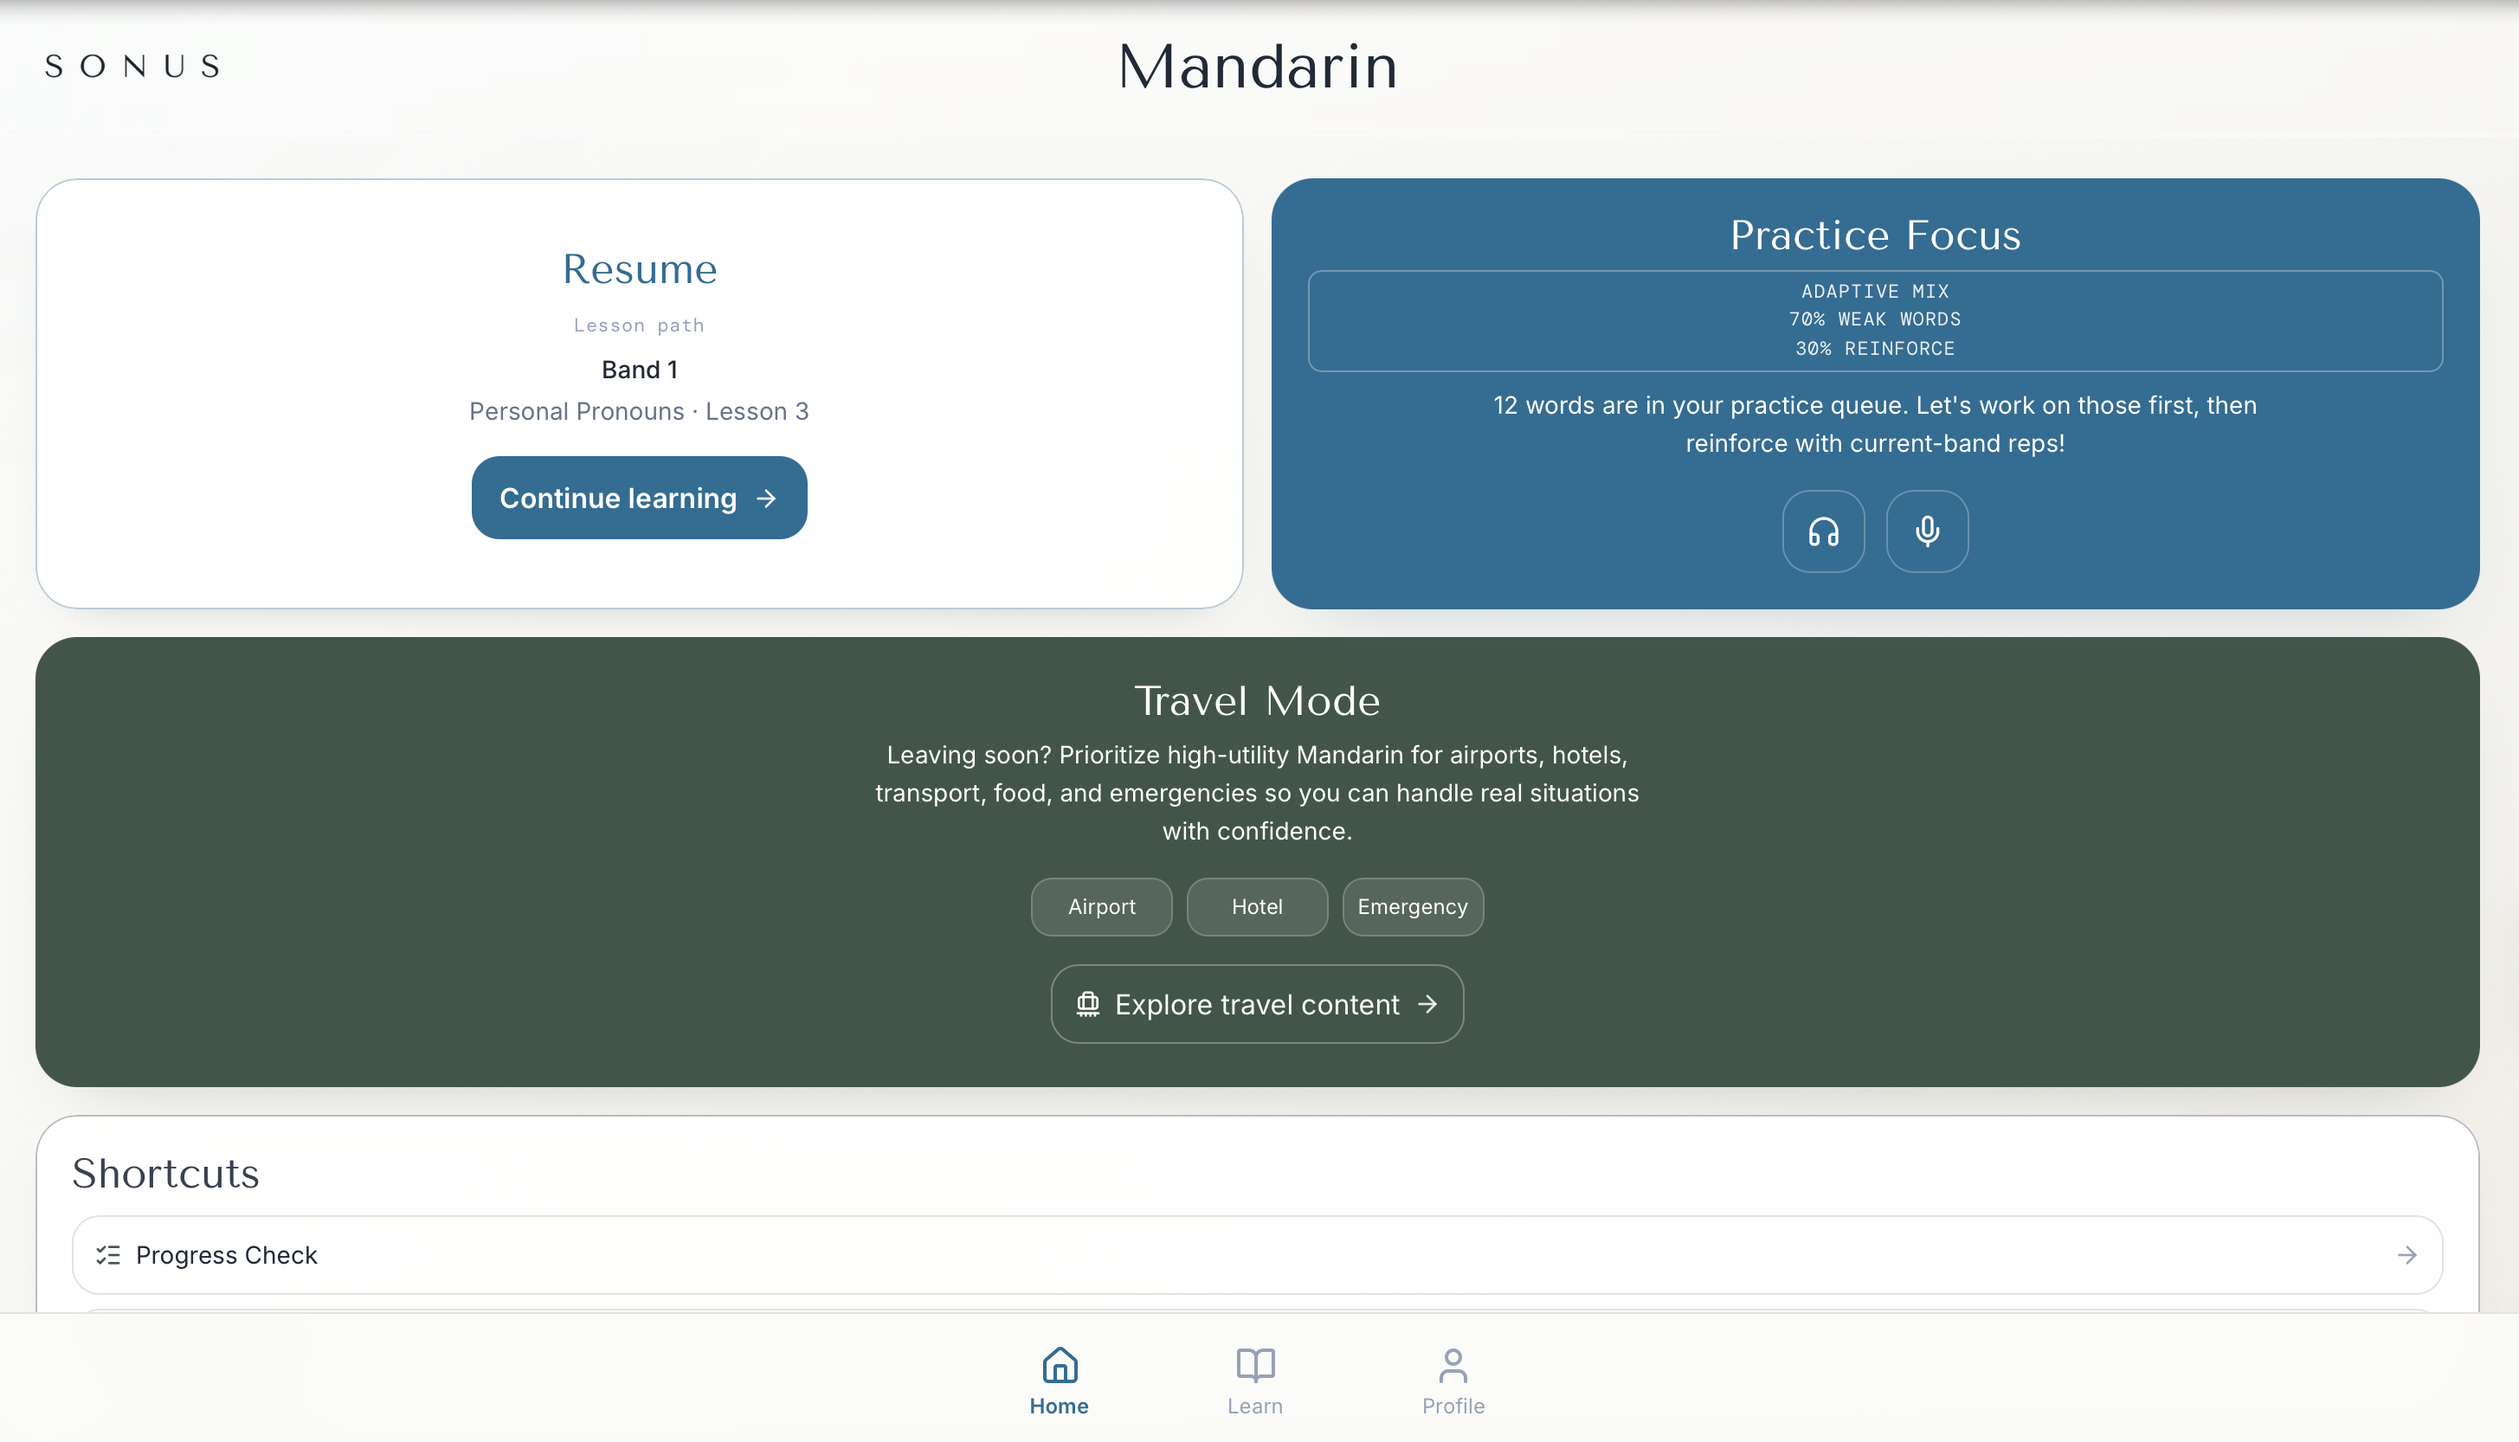
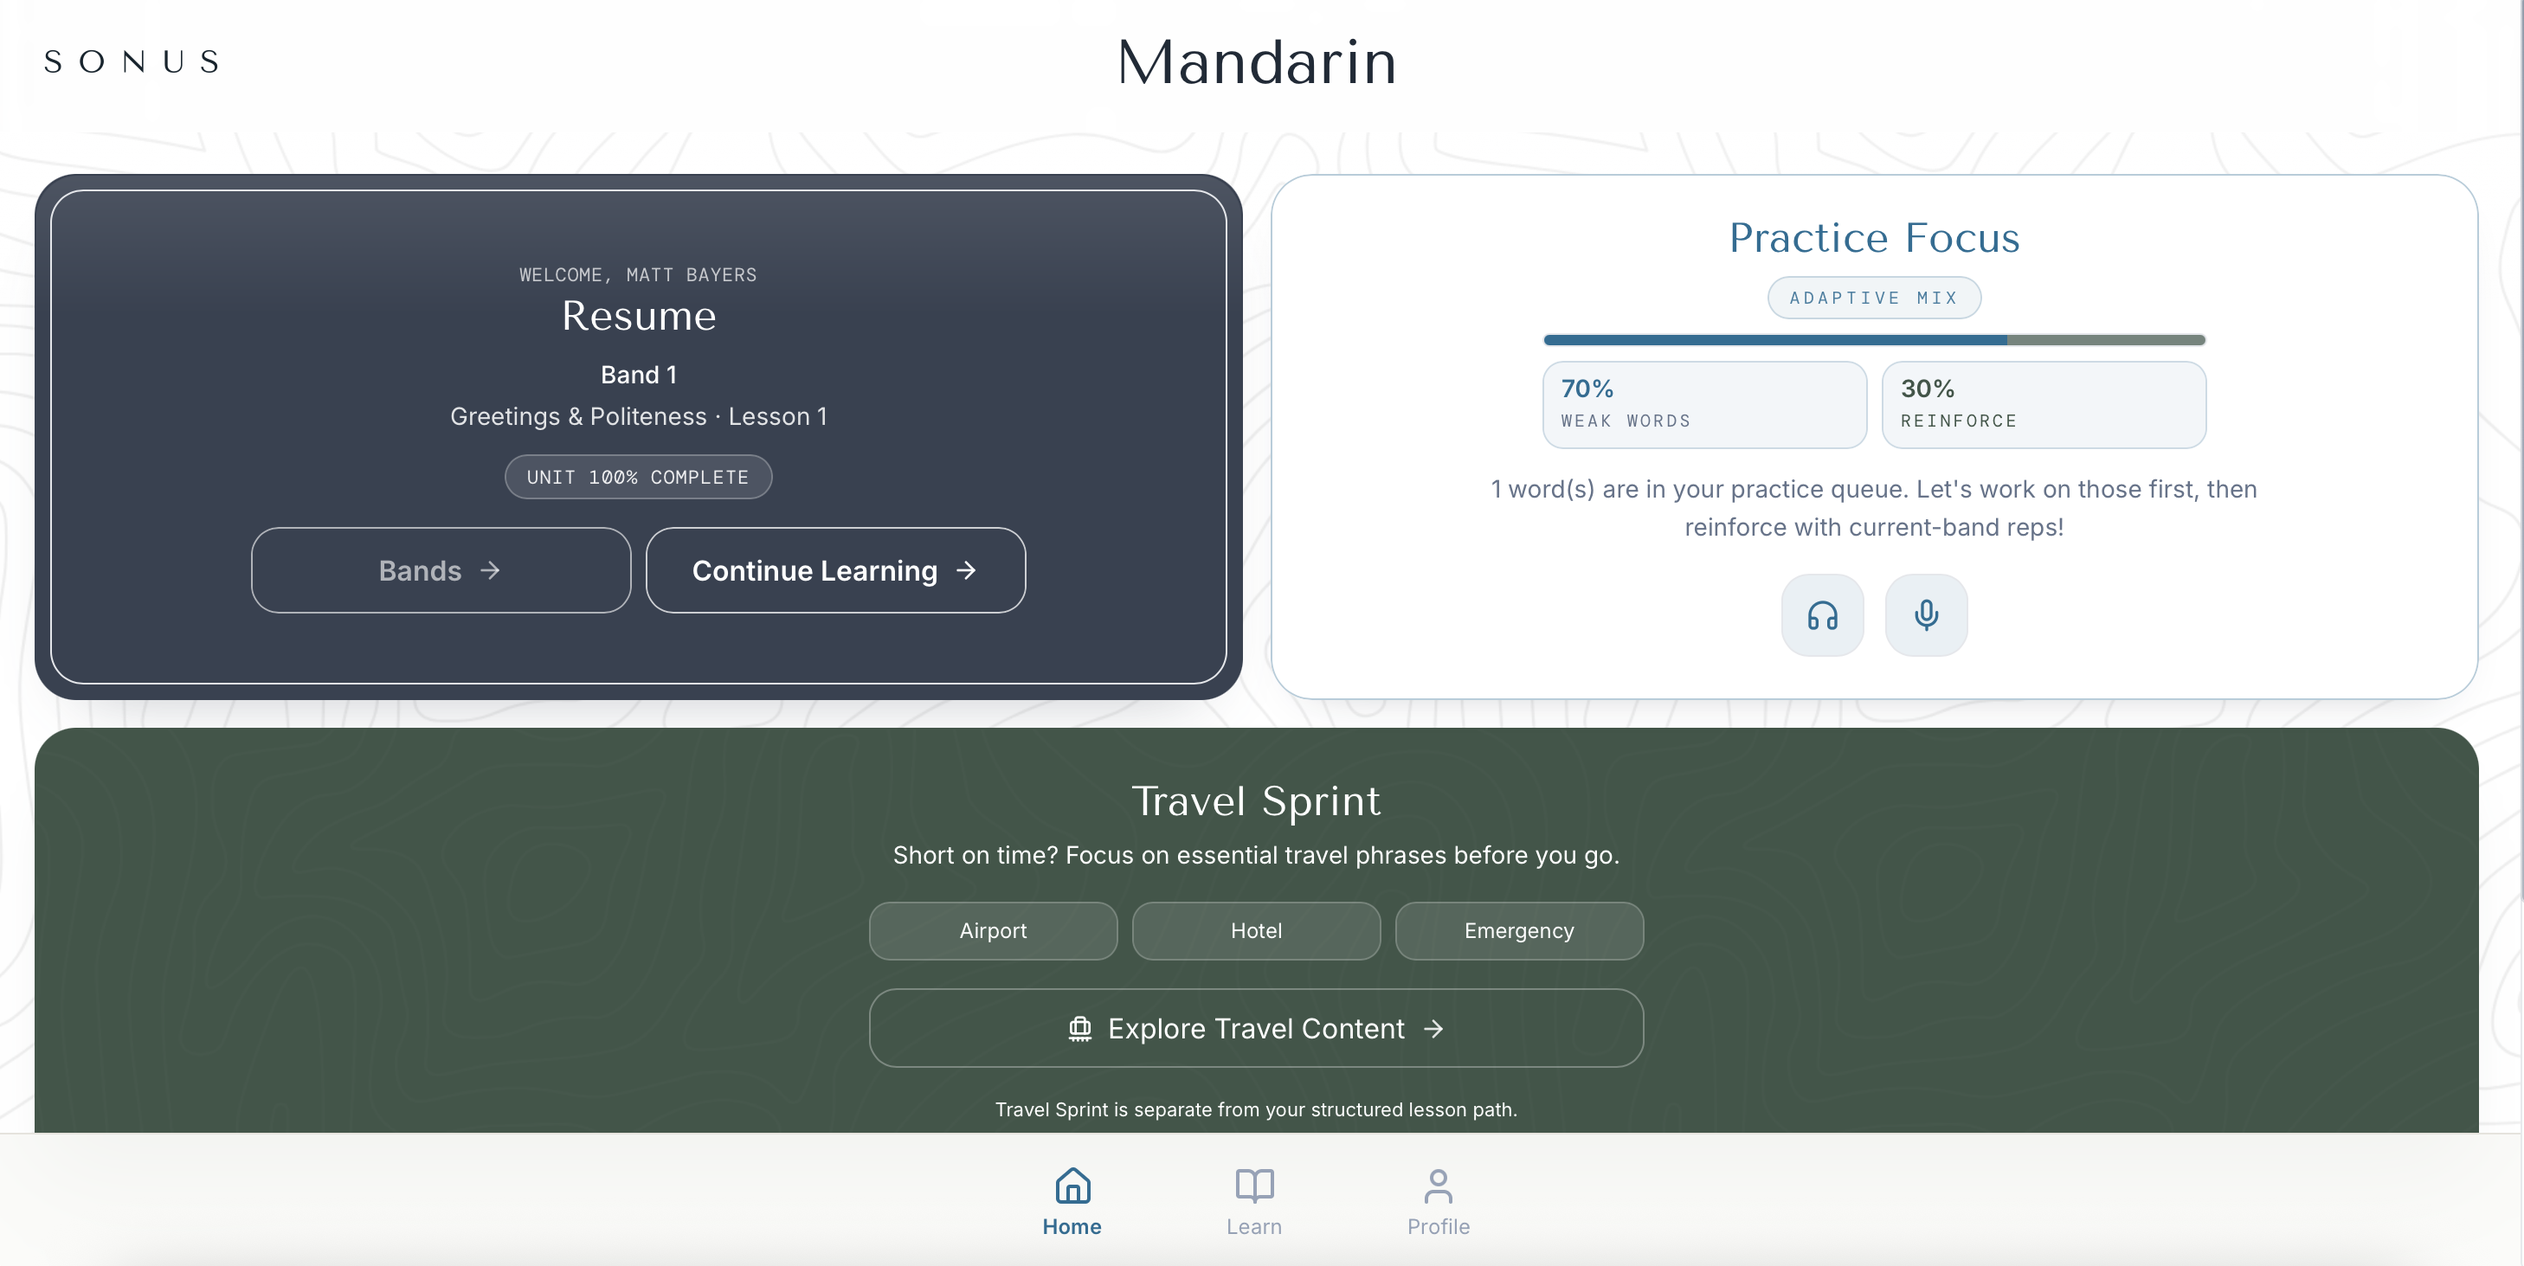
Updates to Readme demo photos

diff --git a/README.md b/README.md
@@ -105,16 +105,16 @@ Proper attribution is given in accordance with the respective licenses of these 
 ![Sonus Learn](sonus-react/public/Demo/demo-02-learn.png)
 
 ### Travel Mode
-![Sonus Flashcards](sonus-react/public/Demo/demo-03-flashcards.png)
+![Sonus Flashcards](sonus-react/public/Demo/demo-03-travel.png)
 
 ### Bands
-![Sonus Quiz](sonus-react/public/Demo/demo-04-quiz.png)
+![Sonus Quiz](sonus-react/public/Demo/demo-04-bands.png)
 
-### Beginner Bands
-![Sonus Speak](sonus-react/public/Demo/demo-05-speak.png)
+### Beginner Band
+![Sonus Speak](sonus-react/public/Demo/demo-05-beginnerband.png)
 
 ### Units Layout
-![Sonus Progress](sonus-react/public/Demo/demo-06-progress.png)
+![Sonus Progress](sonus-react/public/Demo/demo-06-units.png)
 
 ### Speak Mode
-![Sonus Review](sonus-react/public/Demo/demo-07-review.png)
+![Sonus Review](sonus-react/public/Demo/demo-07-speak.png)
